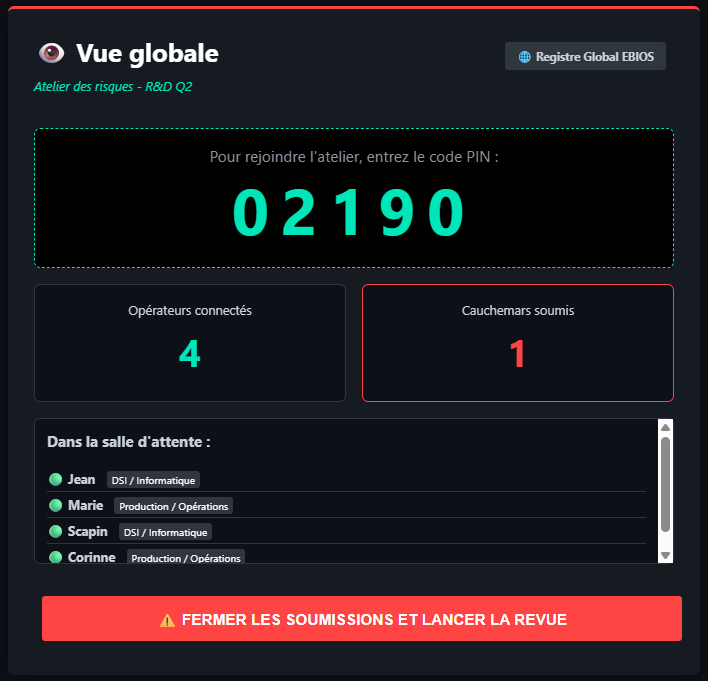
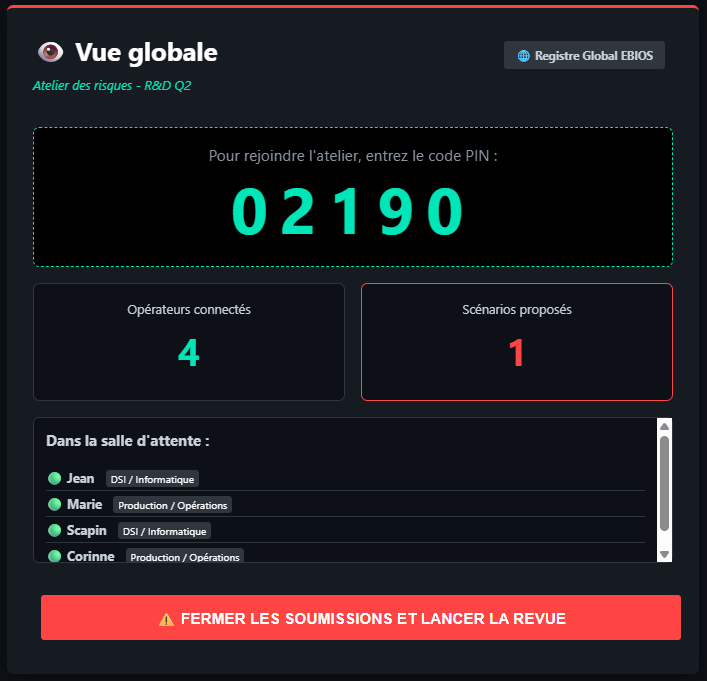
Correction typo

diff --git a/src/mj_dashboard.php b/src/mj_dashboard.php
@@ -76,7 +76,7 @@ $participants = $list_participants->fetchAll();
                 <div class="stat-number"><?= $nb_participants ?></div>
             </div>
             <div class="stat-box" style="border-color: var(--accent-red);">
-                <div>Cauchemars soumis</div>
+                <div>Scénarios proposés</div>
                 <div class="stat-number" style="color: var(--accent-red);"><?= $nb_scenarios ?></div>
             </div>
         </div>
